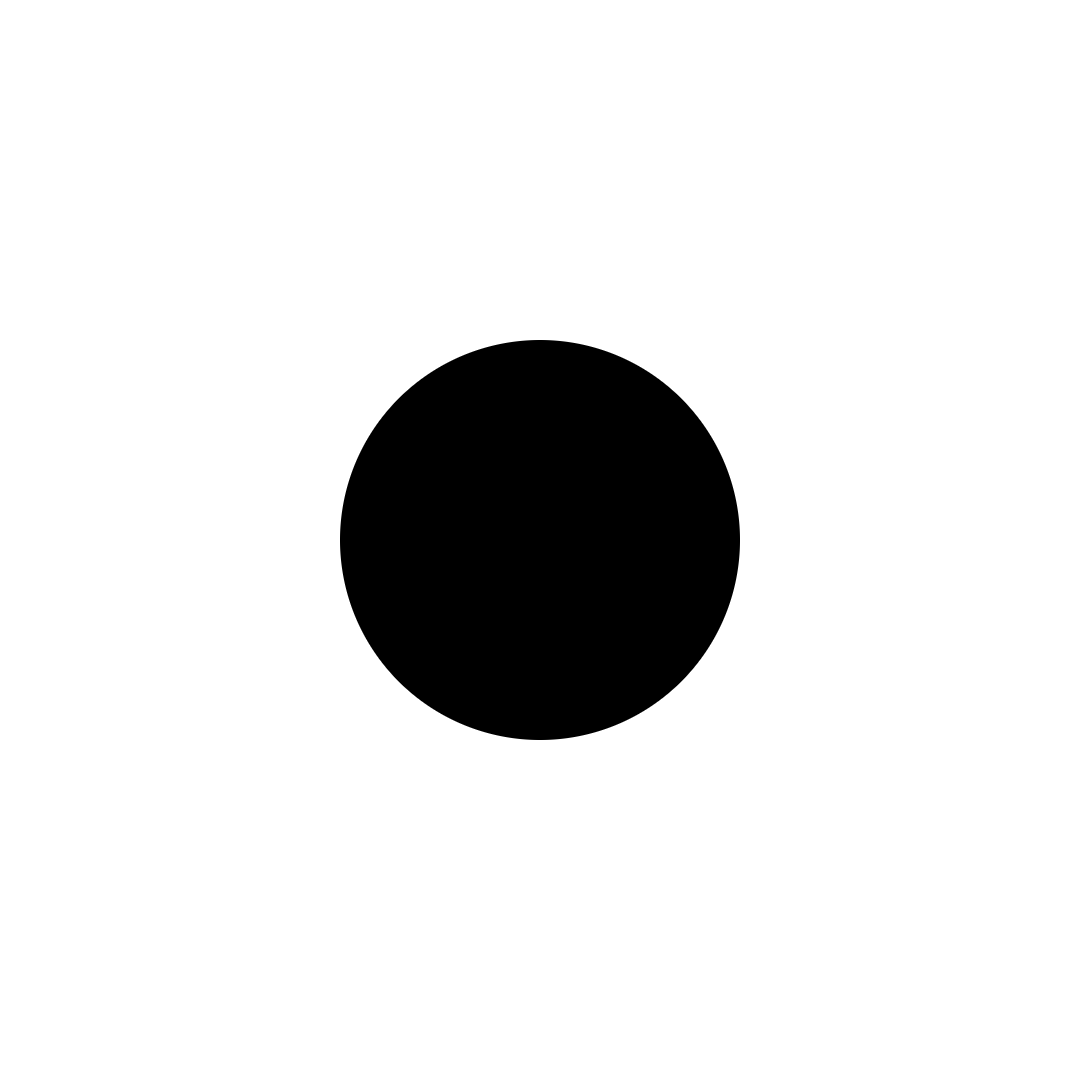
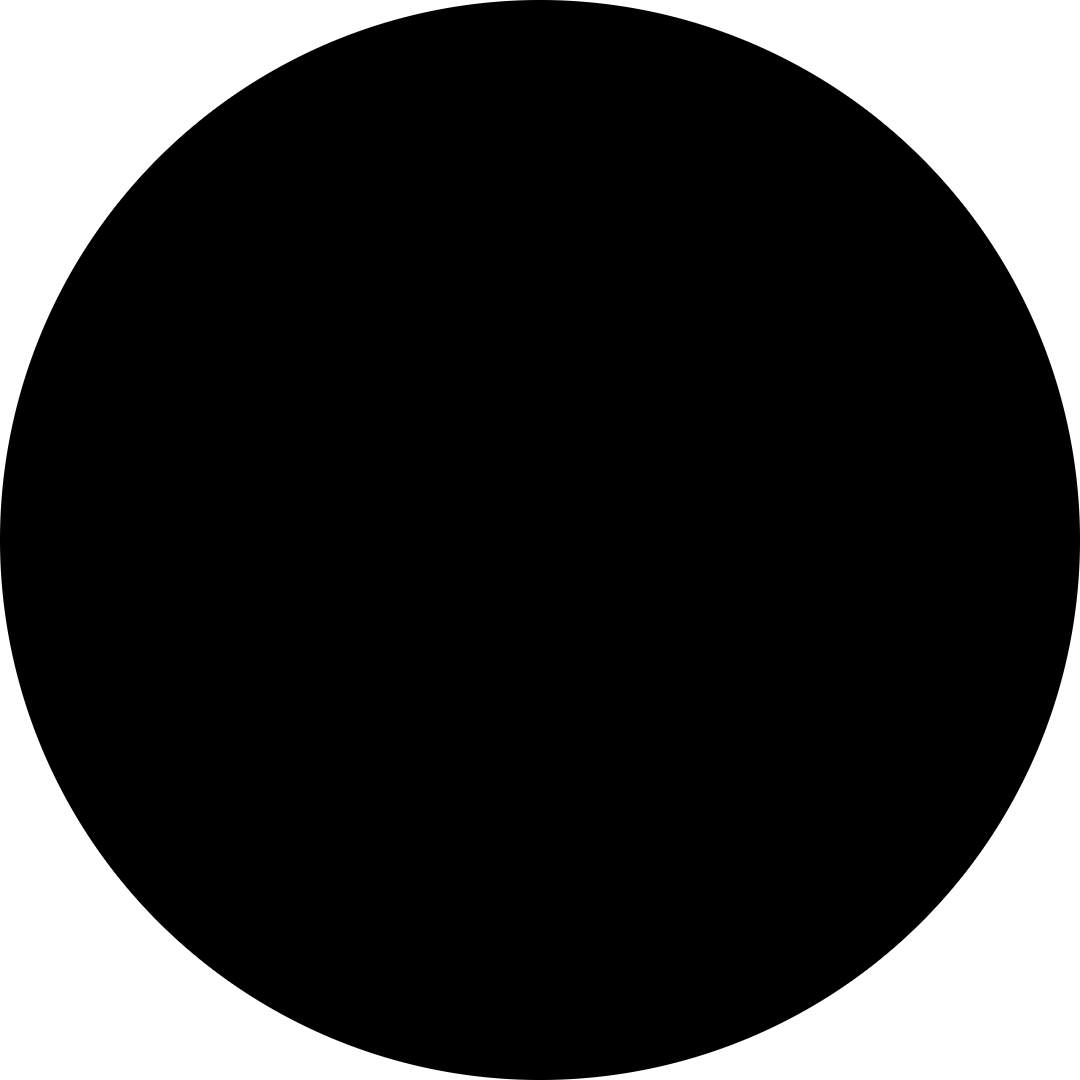
Calculate pie radius

diff --git a/piechart/src/androidTest/kotlin/ir/mahozad/android/compose/SizeUtilTest.kt b/piechart/src/androidTest/kotlin/ir/mahozad/android/compose/SizeUtilTest.kt
@@ -1,0 +1,41 @@
+package ir.mahozad.android.compose
+
+import androidx.compose.ui.geometry.Size
+import org.assertj.core.api.Assertions.assertThat
+import org.junit.jupiter.api.Nested
+import org.junit.jupiter.api.Test
+import org.junit.jupiter.api.assertThrows
+
+class SizeUtilTest {
+
+    @Nested inner class PieRadius {
+        @Test fun calculatePieRadiusUnspecifiedSize() {
+            val size = Size.Unspecified
+            assertThrows<IllegalStateException> { calculatePieRadius(size) }
+        }
+
+        @Test fun calculatePieRadiusWidthAndHeightEqualToZero() {
+            val size = Size.Zero
+            val radius = calculatePieRadius(size)
+            assertThat(radius).isEqualTo(0f)
+        }
+
+        @Test fun calculatePieRadiusWidthLargerThanHeight() {
+            val size = Size(102f, 45f)
+            val radius = calculatePieRadius(size)
+            assertThat(radius).isEqualTo(22.5f)
+        }
+
+        @Test fun calculatePieRadiusWidthSmallerThanHeight() {
+            val size = Size(10f, 45f)
+            val radius = calculatePieRadius(size)
+            assertThat(radius).isEqualTo(5f)
+        }
+
+        @Test fun calculatePieRadiusWidthEqualToHeight() {
+            val size = Size(59f, 59f)
+            val radius = calculatePieRadius(size)
+            assertThat(radius).isEqualTo(29.5f)
+        }
+    }
+}

diff --git a/piechart/src/main/kotlin/ir/mahozad/android/compose/PieChartCompose.kt b/piechart/src/main/kotlin/ir/mahozad/android/compose/PieChartCompose.kt
@@ -31,8 +31,8 @@ fun PieChartCompose(
         transitionProgress.animateTo(1f, animationSpec = animation)
     }
 
-    DrawChart(
-        pieChartData = pieChartData,
+    Pie(
+        slices = pieChartData,
         modifier = modifier.fillMaxSize(),
         progress = transitionProgress.value,
         // sliceDrawer = sliceDrawer
@@ -40,15 +40,14 @@ fun PieChartCompose(
 }
 
 @Composable
-private fun DrawChart(
-    pieChartData: List<Slice2>,
+private fun Pie(
+    slices: List<Slice2>,
     modifier: Modifier,
     progress: Float,
     // sliceDrawer: SliceDrawer
 ) {
-    val slices = pieChartData
-
     Canvas(modifier = modifier) {
+        val radius = calculatePieRadius(size)
         drawIntoCanvas {
             var startArc = 0f
 
@@ -56,7 +55,7 @@ private fun DrawChart(
                 val angle = 100
 
                 // drawArc()
-                drawContext.canvas.drawCircle(center, 200f, AndroidPaint())
+                drawContext.canvas.drawCircle(center, radius, AndroidPaint())
 
                 startArc += angle
             }

diff --git a/piechart/src/main/kotlin/ir/mahozad/android/compose/SizeUtilCompose.kt b/piechart/src/main/kotlin/ir/mahozad/android/compose/SizeUtilCompose.kt
@@ -1,0 +1,7 @@
+package ir.mahozad.android.compose
+
+import androidx.compose.ui.geometry.Size
+
+internal fun calculatePieRadius(size: Size): Float {
+    return size.minDimension / 2f
+}
